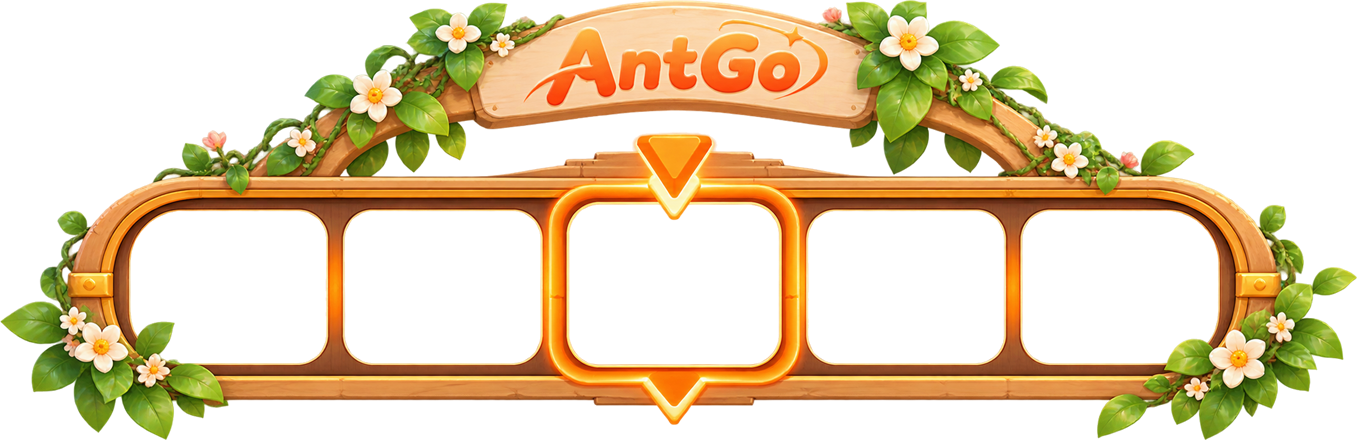
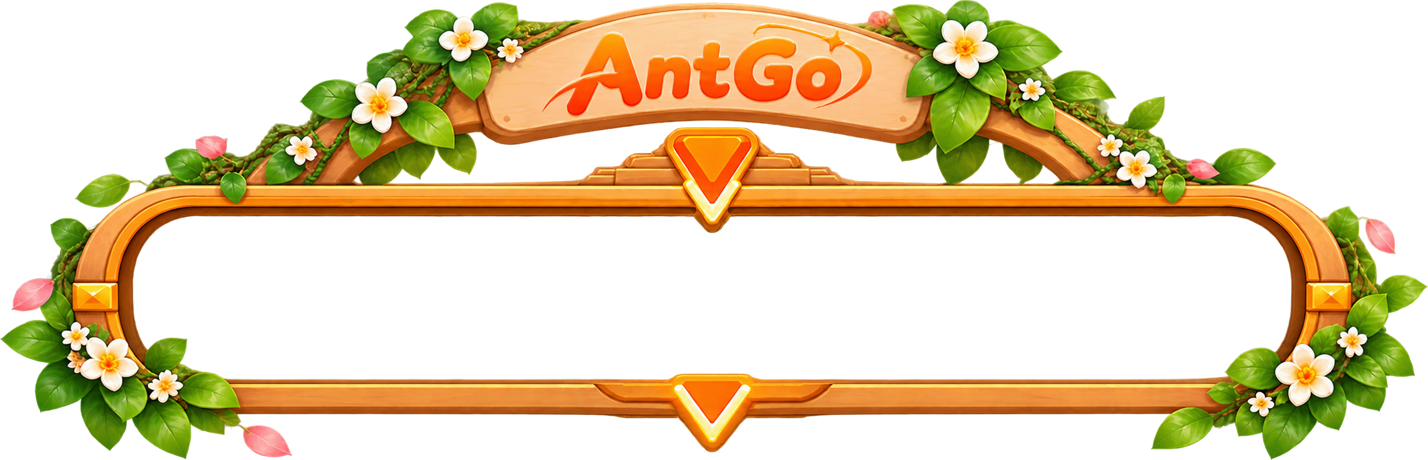
feat(client): quay món dùng khung gỗ rãnh trống + thẻ viền kem chạy + khung ngắm ở giữa (khớp chuyển động hơn)

diff --git a/client/src/app/features/spin/spin/spin.css b/client/src/app/features/spin/spin/spin.css
@@ -12,14 +12,21 @@
 .c1 { left: -30px; top: 40px; width: 170px; animation: drift 16s ease-in-out infinite alternate; }
 .c2 { right: -40px; top: 150px; width: 190px; animation: drift 20s ease-in-out infinite alternate-reverse; }
 @keyframes drift { from { transform: translateX(0); } to { transform: translateX(26px); } }
-.board { position: relative; width: min(100%, 780px); margin: 0 auto; }
+.board { position: relative; width: min(100%, 840px); margin: 0 auto; --t: 90px; }
 .frame { position: relative; z-index: 2; display: block; width: 100%; pointer-events: none; }
-.view { position: absolute; z-index: 1; left: 10%; right: 10%; top: 45%; height: 40%; overflow: hidden; }
+/* cửa sổ = lòng rãnh của khung gỗ; các thẻ món chạy trong đó, khung ngắm (sel) đứng yên đè lên ở giữa */
+.view { position: absolute; z-index: 1; left: 9.3%; right: 9.6%; top: 50.7%; height: 30.4%; overflow: hidden; }
 .strip { display: flex; height: 100%; will-change: transform; transition: transform 4.2s cubic-bezier(.12, .72, .1, 1); }
 .strip.instant { transition: none; }
-.item { flex: none; padding: 0 3px; transition: transform .3s; }
-.item img, .item .ph { display: block; width: 100%; height: 100%; object-fit: cover; border-radius: 14px; background: #fff; }
-.item.win { transform: scale(1.06); }
+.item { flex: none; display: grid; place-items: center; padding: 0 5px; }
+.card { position: relative; height: 100%; aspect-ratio: 222 / 200; }
+.card .food { position: absolute; left: 6.5%; top: 11%; width: 87%; height: 78%; object-fit: cover; border-radius: 10px; background: #fff; }
+.card .rim { position: absolute; inset: 0; width: 100%; height: 100%; }
+.sel { position: absolute; z-index: 3; left: 49.6%; top: 65.9%; width: calc(var(--t) * 1.62); transform: translate(-50%, -51.7%); pointer-events: none; filter: drop-shadow(0 6px 10px rgba(194, 84, 26, .35)); }
+.sel.on { animation: scan .7s ease-in-out infinite alternate; }
+.sel.hit { animation: hit .7s ease-out; }
+@keyframes scan { from { filter: drop-shadow(0 4px 8px rgba(194, 84, 26, .25)) brightness(1); } to { filter: drop-shadow(0 0 16px rgba(255, 170, 40, .95)) brightness(1.1); } }
+@keyframes hit { 0% { transform: translate(-50%, -51.7%) scale(1); } 35% { transform: translate(-50%, -51.7%) scale(1.14); filter: drop-shadow(0 0 22px rgba(255, 170, 40, 1)) brightness(1.15); } 100% { transform: translate(-50%, -51.7%) scale(1); } }
 .base { position: relative; z-index: 1; width: min(100%, 420px); margin: -3% auto 0; }
 .plat { display: block; width: 100%; }
 .go { position: absolute; left: 50%; top: 40%; width: 66%; padding: 0; border: 0; background: none; transform: translate(-50%, -50%); transition: transform .15s, filter .2s; cursor: pointer; }
@@ -70,7 +77,7 @@
   .grid { grid-template-columns: repeat(2, minmax(0, 1fr)); }
   .rcard img { width: 80px; height: 64px; }
 }
-@media (prefers-reduced-motion: reduce) { .strip { transition: none; } .result { animation: none; } .cloud, .ant.show, .busy .petals i { animation: none; } }
+@media (prefers-reduced-motion: reduce) { .strip { transition: none; } .result { animation: none; } .cloud, .ant.show, .busy .petals i, .sel.on, .sel.hit { animation: none; } }
 
 .foot { height: 64px; margin-top: 4px; display: grid; place-items: center; text-align: center; font-size: 13px; overflow: hidden; }
 .foot app-loader { transform: scale(.82); transform-origin: center; }
@@ -82,7 +89,6 @@
   .c1 { width: 110px; }
   .c2 { width: 120px; top: 110px; }
   .ant { width: 84px; }
-  .item img, .item .ph { border-radius: 8px; }
   .controls { gap: 10px; }
   .budget { flex: 1 1 100%; justify-content: space-between; }
   .budget select { flex: 1; text-align: right; }

diff --git a/client/src/app/features/spin/spin/spin.html b/client/src/app/features/spin/spin/spin.html
@@ -20,12 +20,15 @@
       <img class="cloud c2" src="assets/garden/cloud2.png" alt="" />
       <span class="petals" aria-hidden="true"><i></i><i></i><i></i><i></i><i></i><i></i></span>
 
-      <div class="board">
+      <div class="board" [style.--t]="trackH() + 'px'">
         <div class="view" #view>
           <div class="strip" [class.instant]="instant()" [style.transform]="'translateX(' + offset() + 'px)'">
             @for (p of reel(); track $index) {
               <div class="item" [class.win]="!spinning() && result() === p && $index === 33" [style.width.px]="itemW()">
-                @if (p.images.length) { <img [src]="p.images[0]" [alt]="p.title" loading="lazy" /> } @else { <span class="ph"></span> }
+                <div class="card">
+                  @if (p.images.length) { <img class="food" [src]="p.images[0]" [alt]="p.title" loading="lazy" /> } @else { <span class="food ph"></span> }
+                  <img class="rim" src="assets/garden/rim.png" alt="" />
+                </div>
               </div>
             } @empty {
               <p class="empty-reel">Chưa có món nào ở nhóm này.</p>
@@ -33,6 +36,7 @@
           </div>
         </div>
         <img class="frame" src="assets/garden/frame.png" alt="" />
+        <img class="sel" [class.on]="spinning()" [class.hit]="!spinning() && result()" src="assets/garden/sel.png" alt="" />
       </div>
 
       <div class="base">

diff --git a/client/src/app/features/spin/spin/spin.ts b/client/src/app/features/spin/spin/spin.ts
@@ -36,7 +36,7 @@ export function spinPool(posts: Post[], tab: SpinTab, budget: number): Post[] {
   );
 }
 
-const ITEM_W = 164; // bề rộng một ô trước khi đo; thực tế = 1/5 bề rộng khung nhìn (5 ô của khung gỗ)
+const ITEM_W = 110; // bề rộng một ô trước khi đo; thực tế tính theo chiều cao rãnh của khung gỗ
 const REEL_LEN = 40;
 const WIN_AT = 33;
 const SPIN_MS = 4200;
@@ -55,6 +55,7 @@ export class Spin implements OnInit, OnDestroy {
   protected readonly tabs = TABS;
   protected readonly budgets = BUDGETS;
   protected readonly itemW = signal(ITEM_W);
+  protected readonly trackH = signal(90);
   protected readonly loading = signal(true);
   protected readonly error = signal<string | null>(null);
   protected readonly foods = signal<Post[]>([]);
@@ -73,8 +74,11 @@ export class Spin implements OnInit, OnDestroy {
   @HostListener('window:resize')
   onResize(): void {
     if (this.spinning()) return;
-    const vw = this.view?.nativeElement.clientWidth;
-    if (vw) this.itemW.set(vw / 5);
+    const vh = this.view?.nativeElement.clientHeight;
+    if (vh) {
+      this.trackH.set(vh);
+      this.itemW.set(vh * (222 / 200) + 10); // thẻ cao bằng rãnh, tỉ lệ khung viền món, cộng khoảng cách
+    }
   }
 
   ngOnInit(): void {
